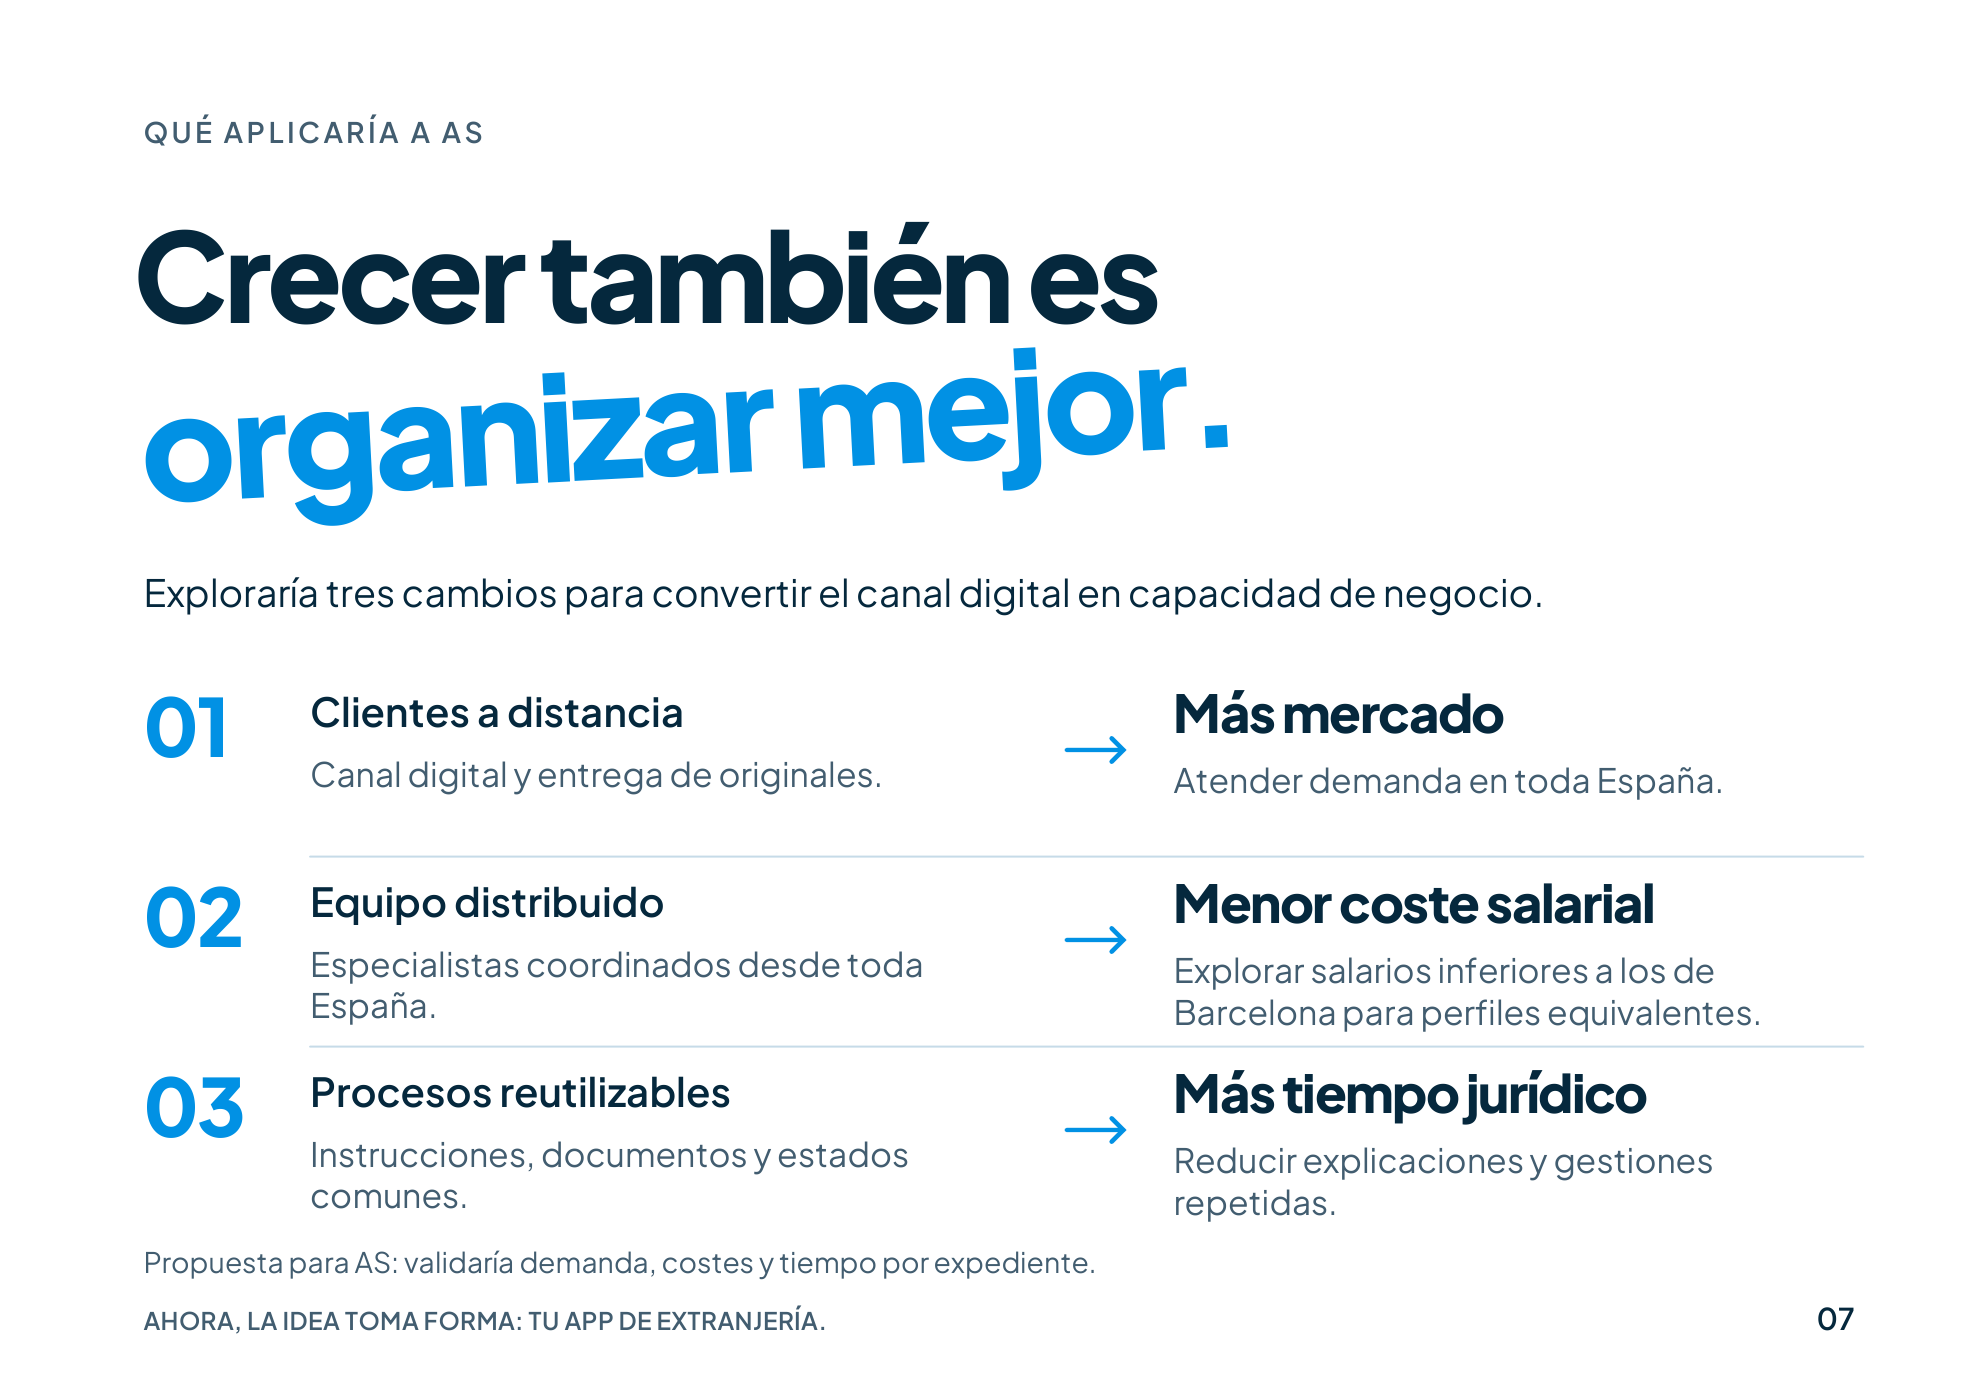
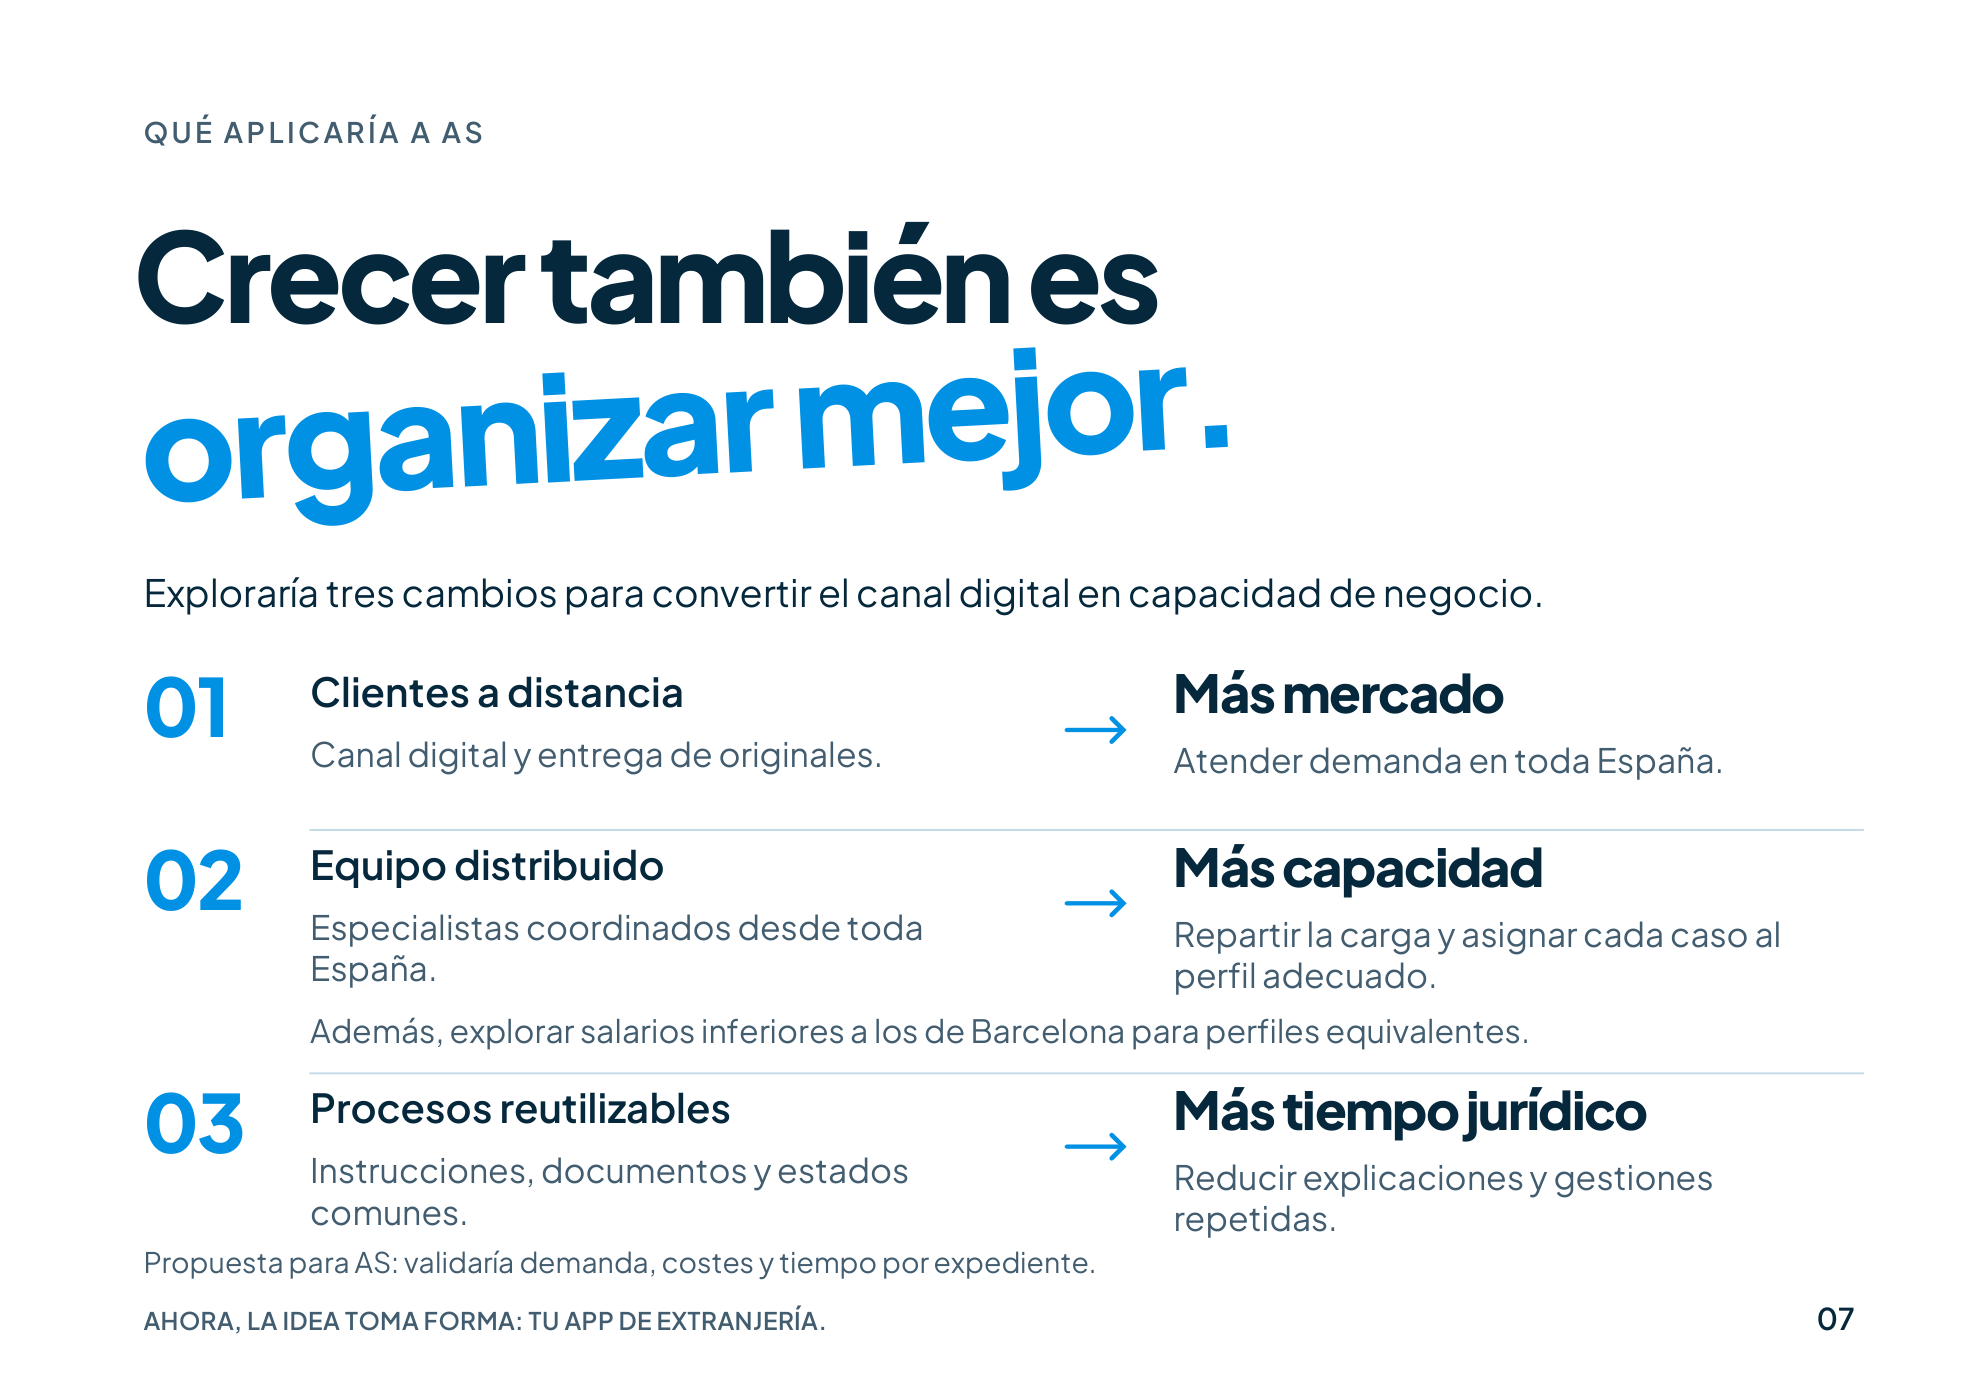
Recuperar capacidad y coordinación junto al ahorro salarial en la página 7

diff --git a/librito/muestras/06-07-modelo/generar.py b/librito/muestras/06-07-modelo/generar.py
@@ -129,7 +129,7 @@ def page7(p, data):
 
     # Cada fila explica una relación concreta, de cambio operativo a beneficio.
     for i, item in enumerate(data["mecanismos"]):
-        y = 218 + i * 57
+        y = (212, 264, 337)[i]
         p.text(f"{i+1:02d}", 43, y + 9, 24, "ExtraBold", BLUE, -.8)
         p.text(item["titulo"], 93, y, 12, "SemiBold")
         end_left = p.para(item["texto"], 93, y + 18, 210, 10.1, 12.4)
@@ -138,8 +138,14 @@ def page7(p, data):
         p.text(item["resultado"], 352, y + 2, 15.7, "ExtraBold", DARK, -.45)
         end_right = p.para(item["beneficio"], 352, y + 20, 207, 10.1, 12.4)
         assert max(end_left, end_right) <= y + 46, "Una relación necesita más altura"
+        if item.get("beneficioAdicional"):
+            # La comparación salarial complementa la capacidad y coordinación.
+            assert i == 1, "El complemento está previsto dentro del segundo mecanismo"
+            assert pdfmetrics.stringWidth(item["beneficioAdicional"], "Jakarta-Regular", 9.6) <= 466
+            p.text(item["beneficioAdicional"], 93, 313, 9.6, ink=MUTED)
         if i < 2:
-            p.line(93, y + 39, 559, y + 39, LINE, .6)
+            separator = 249 if i == 0 else 322
+            p.line(93, separator, 559, separator, LINE, .6)
 
     p.text(data["nota"], 43, 382, 8.5, ink=MUTED)
     common.footer(p, 7, data["puente"])

diff --git a/librito/slides/07-modelo-operativo/INSTRUCCIONES.md b/librito/slides/07-modelo-operativo/INSTRUCCIONES.md
@@ -1,6 +1,6 @@
 # Qué podemos aprender de ese modelo
 
-Estado: **variante revisada en su punto 2, pendiente de revisión**, 17-09-2026. Página propuesta **7/24**;
+Estado: **punto 2 corregido: capacidad, coordinación y comparación salarial adicional; pendiente de revisión**, 18-09-2026. Página propuesta **7/24**;
 identificador estable `modelo-operativo`. Pareja enfrentada 6–7.
 Origen: **S04, argumentos de negocio**.
 
@@ -43,7 +43,8 @@ pendiente de revisión. Se desarrolla después de la 6, dentro de la dirección
 que Pol pide continuar.
 
 Tres relaciones causa y efecto: clientes a distancia → más mercado; equipo
-distribuido → menor coste salarial; procesos reutilizables → más tiempo jurídico.
+distribuido → más capacidad, con un posible ahorro salarial adicional; procesos
+reutilizables → más tiempo jurídico.
 El texto habla en primera persona de lo que Pol exploraría para AS y explicita
 la validación futura de demanda, costes y tiempo por expediente.
 
@@ -59,14 +60,25 @@ Esta corrección dio lugar a una versión centrada en capacidad y coordinación,
 sin comparación salarial. Se conserva como referencia histórica; la aclaración
 siguiente sustituye esa exclusión.
 
-## Última aclaración de Pol: incluir la comparación salarial
+## Aclaración anterior: incluir la comparación salarial
 
 > añade las comparaciones salariales a ese punto 2 porfavor.
 
-El punto 2 mantiene el equipo distribuido y añade **menor coste salarial** como
-beneficio buscado: «Explorar salarios inferiores a los de Barcelona para perfiles
-equivalentes». Se presenta como propuesta por validar, sin cifras inventadas.
-La pareja 6–7 y la lectura acumulada 1–7 incorporan esta versión.
+La primera interpretación sustituyó el beneficio de capacidad y coordinación
+por «Menor coste salarial». Pol corrige esta interpretación en la aclaración
+siguiente. Las muestras históricas 6–7 y 1–7 conservan aquella versión;
+el render vigente es `index.pdf` / `index.png` y el librito compilado.
+
+## Aclaración de Pol del 18-09-2026: añadir, sin sustituir
+
+> Cuando te dije que cambiases el punto 2 de la diapositiva 7, te dije que añadieras el tema del coste salarial, NO que reemplazaras todo el punto solo por ese aspecto conreto.
+
+Se recupera «Equipo distribuido → Más capacidad»: especialistas coordinados
+desde toda España, reparto de la carga y asignación de cada caso al perfil
+adecuado. Debajo, dentro del mismo punto, se añade «Además, explorar salarios
+inferiores a los de Barcelona para perfiles equivalentes». La comparación
+complementa el argumento operativo; no lo sustituye ni lo reduce al ahorro.
+No se inventan cifras. Se mantiene la validación de costes del pie de página.
 
 ## Render vigente y publicación
 

diff --git a/librito/slides/07-modelo-operativo/variantes/01-procesos/README.md b/librito/slides/07-modelo-operativo/variantes/01-procesos/README.md
@@ -4,14 +4,16 @@ Variante desarrollada el 17-09-2026, pendiente de revisión. Expresa en primera
 persona qué aplicaría Pol a AS a partir del referente de la página enfrentada.
 
 Tres relaciones entre cambio operativo y beneficio esperado: clientes a
-distancia y alcance; equipo distribuido y coste salarial; procesos reutilizables y
+distancia y alcance; equipo distribuido y capacidad; procesos reutilizables y
 tiempo jurídico. La numeración, las flechas y las dos columnas permiten leer
 cada relación sin convertirla en una lista de funciones de la app.
 
-Última aclaración de Pol: añadir las comparaciones salariales al punto 2.
-El texto conecta especialistas coordinados desde toda España con la posibilidad
-de explorar salarios inferiores a los de Barcelona para perfiles equivalentes.
-Es una hipótesis de ahorro por validar, sin importes inventados.
+Corregida el 18-09-2026: la comparación salarial se **añade** al punto 2.
+El argumento principal recupera la coordinación de especialistas, el reparto de
+carga y la asignación de cada caso al perfil adecuado. Como beneficio adicional,
+explorar salarios inferiores a los de Barcelona para perfiles equivalentes.
+Es una hipótesis de ahorro por validar, sin importes inventados. La fila 2 tiene
+una línea adicional para conservar ambos argumentos con una lectura clara.
 
 Son propuestas de Pol, no resultados medidos. El pie identifica demanda,
 costes y tiempo por expediente como aspectos a validar. El cierre prepara el
@@ -25,4 +27,5 @@ concepto de «Tu app de extranjería» que se desarrollará en la página 8.
 - [Pareja 6–7 y lectura acumulada 1–7](../../../../muestras/06-07-modelo/README.md).
 
 A5 horizontal, tipografía y paleta compartidas. No requiere QR ni una escena
-nueva. La demo se desarrollará al llegar a cada página de producto.
+nueva. Los `index` y el librito compilado contienen la revisión vigente; las
+muestras acumuladas de tandas anteriores son instantáneas históricas.
